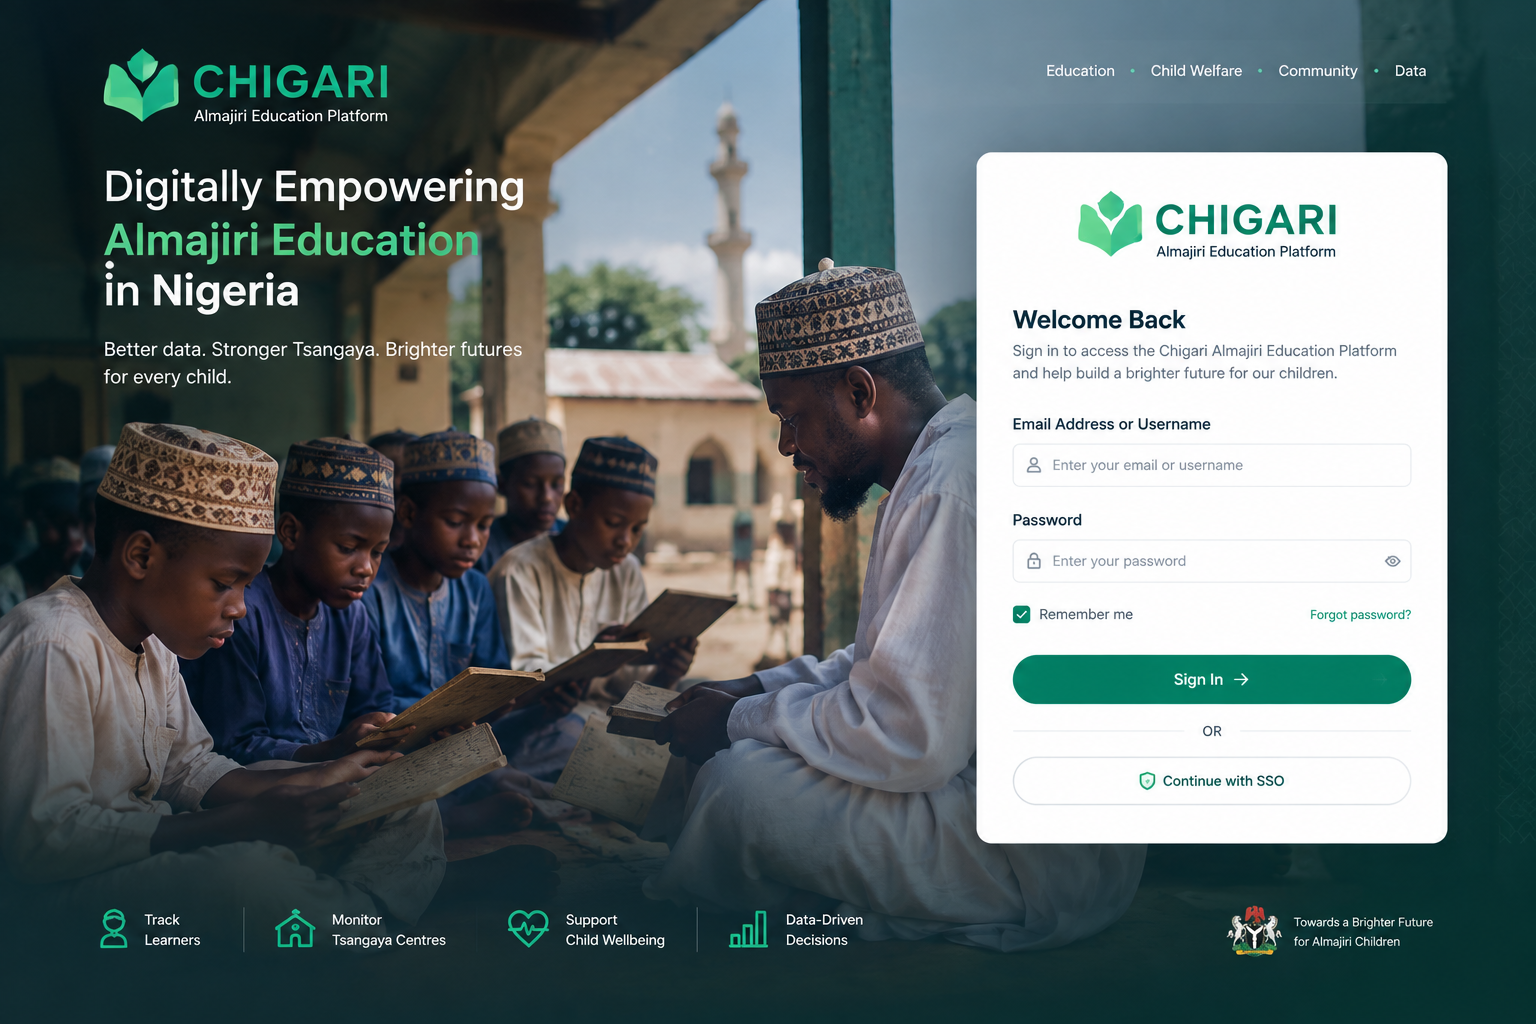
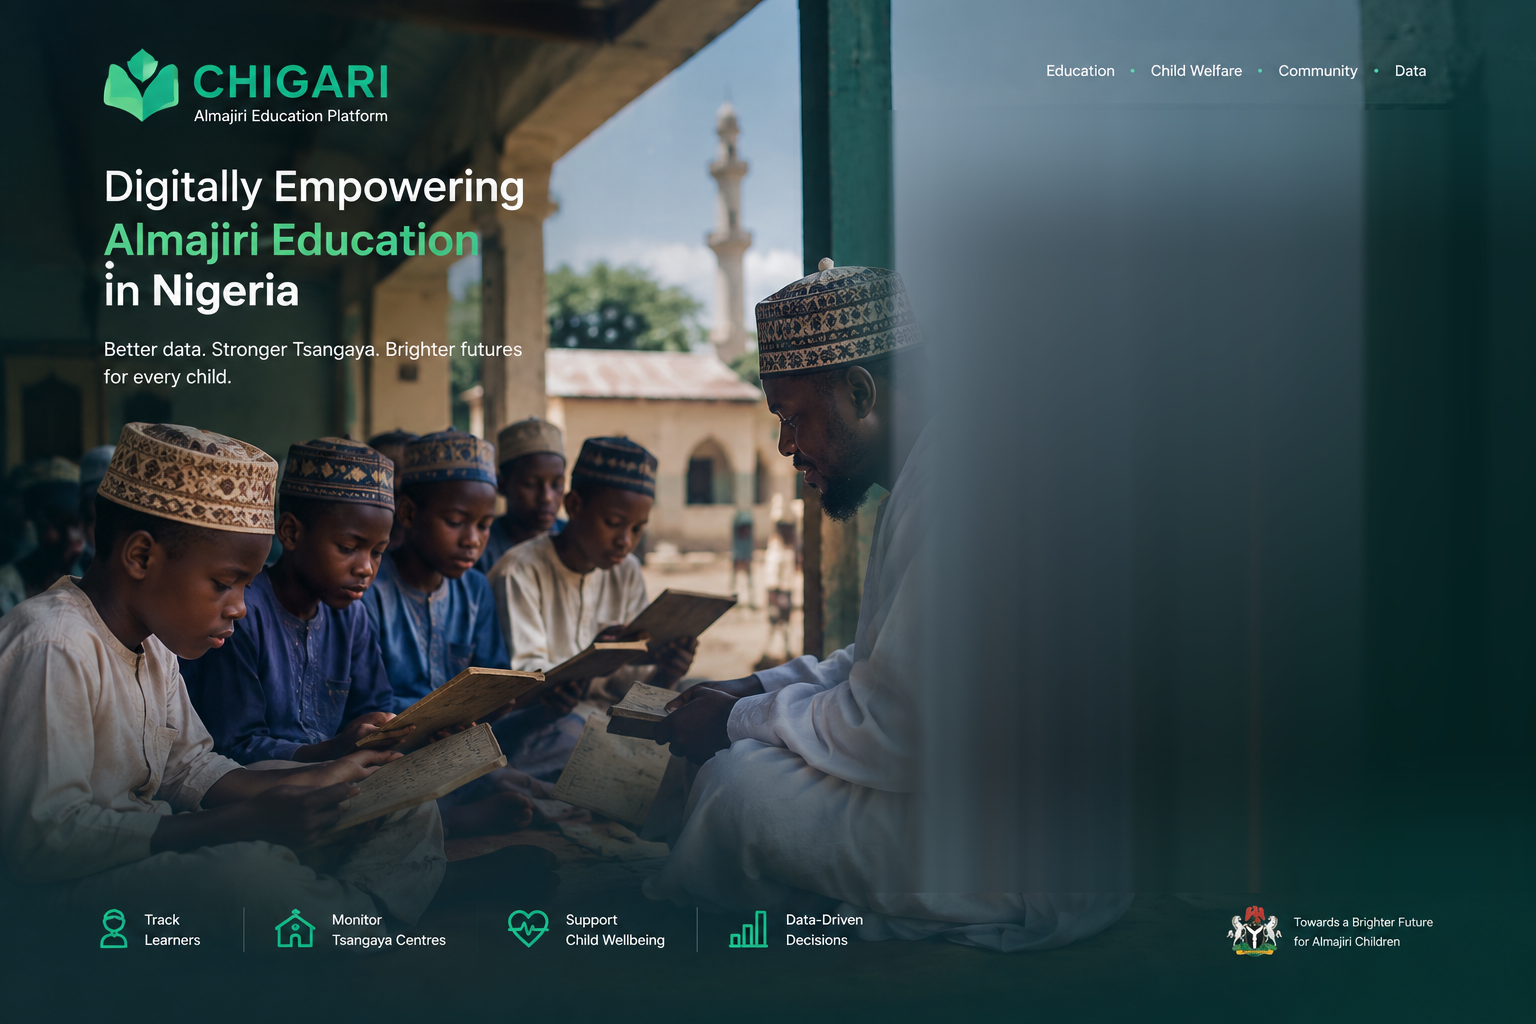
Remove the login card painted into the login page artwork
Before: the sign-in page showed two login cards, one behind the other.

After: it shows one.

The artwork supplied with the prototype is a full page mock-up — photograph,
headline, navigation, footer strip and a login card, all flattened into one
1536x1024 image. The prototype laid it out full bleed and drew the real,
working card on top. The painted card is exactly 470px wide, the same as the
real card's CSS width, so the two line up only at a 1536x1024 viewport. At any
other size the image scales to cover while the real card stays 470px, and the
painted card shows out from behind it; at 1768x900 it left about 75px of a
second card visible down the left-hand side.

How: scripts/clean-login-background.mjs paints the card out of the image and
regenerates public/chigari-login-background.png. The hole is filled by
interpolating down each column from the photograph immediately above and below
it, so the seams are continuous, with a long fade on the left where the fill
runs against the mallam's robe and a gentle vignette so the patch reads as the
frame's own falloff rather than as fog. The patch stays clear of the navigation
words along the top and the coat of arms along the bottom. Nothing else in the
image changes, and the page's markup and CSS are untouched.

Checked by hiding the real card and screenshotting fifteen viewports from
360x640 to 3440x1440: the original leaves a flat-white run of up to 1052px
across nine of them, the new image leaves at most 120px of ordinary
[…]

Changed region(s): [[0.5312, 0.125, 0.9688, 0.8438]]

diff --git a/README.md b/README.md
@@ -196,7 +196,7 @@ bookmarked and shared, and browser back and forward work.
 Fonts, so the dashboard renders with its intended metrics even offline. Leaflet
 and Chart.js are bundled rather than loaded from a CDN, for the same reason.
 
-### Three deliberate differences from the prototype
+### Four deliberate differences from the prototype
 
 1. **The account menu is new.** The prototype had no signed-in user and so
    nowhere to log out from. The menu sits in the header and is built from the
@@ -209,6 +209,15 @@ and Chart.js are bundled rather than loaded from a CDN, for the same reason.
 3. **The Infrastructure and Health chart tooltips now show their value.** The
    prototype's shared tooltip read the category axis on those horizontal bar
    charts, so every bar reported `0%` regardless of its value.
+4. **The login artwork no longer has a login card painted into it.** The
+   supplied image is a full page mock-up, card included, and the prototype laid
+   it out full bleed with a real card on top. The painted card is exactly 470px
+   wide, the same as the real card's CSS width, so the two coincide only at a
+   1536x1024 viewport; at any other size the image scales to cover while the
+   real card stays 470px and the painted one shows out from behind it. It is
+   painted out by `scripts/clean-login-background.mjs`, which takes the original
+   artwork and writes `public/chigari-login-background.png`. Nothing else in the
+   image is touched, and the page's own markup and CSS are unchanged.
 
 Everything else is carried over: the stylesheet is the prototype's, apart from
 the dashboard's scroll lock and full-viewport height moving from `<body>` onto
